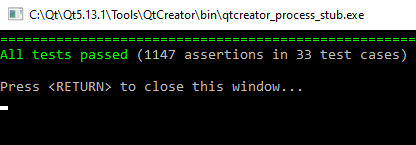
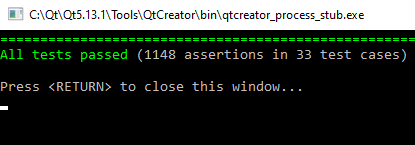
Popravljen listcomp

diff --git a/Main/util.hpp b/Main/util.hpp
@@ -258,13 +258,12 @@ DesnoNeConst primeni(Levo&& a, Desno&& b, BinOp&& operacija)
     return std::move(rez);
 }
 
-// Sablonska fja za apstrakciju odnosno
-// 'razumevanje' fja (list comprehension)
-template<typename Niz, typename P,
+// Sablonska funkcija za apstrakciju odnosno
+// 'razumevanje' listi (list comprehension)
+template<typename Niz, typename P1, typename P2,
          typename NizNeConst = typename std::decay<Niz>::type,
          typename Elem = typename NizNeConst::value_type>
-NizNeConst listcomp(Niz&& izv, const P& pred,
-                    const std::function<void(Elem)>& trans = [](const auto&){})
+NizNeConst listcomp(Niz&& izv, const P1& pred, const P2& trans)
 {
     // Inicijalizacija rezultata
     // prostim kopiranjem izvora
@@ -286,6 +285,14 @@ NizNeConst listcomp(Niz&& izv, const P& pred,
     // Vracanje rezultata; eksplicitno pomeranje
     // kako bi se isforsirala optimizacija (RVO)
     return std::move(rez);
+}
+
+// Gornja fja bez transformacije
+template<typename Niz, typename P,
+         typename NizNeConst = typename std::decay<Niz>::type>
+NizNeConst listcomp(Niz&& izv, const P& pred)
+{
+    return listcomp(std::forward<Niz>(izv), pred, [](auto&){});
 }
 
 // Vracanje tacaka sa leve strane vektora; nesto tipa

diff --git a/Test/oblik_test.cpp b/Test/oblik_test.cpp
@@ -60,7 +60,13 @@ SCENARIO("Moguce je konstruisati mnogougao", "[poly]"){
             CHECK(a.tacke().size() == 7);
 
             a.omot();
-            REQUIRE(a.tacke().size() == 4);
+            CHECK(a.tacke().size() == 4);
+
+            std::vector<int> niz{1, 2, 3};
+            niz = util::listcomp(niz,
+                                 [](const auto& x){return x>2;},
+                                 [](auto& x){x+=2;});
+            REQUIRE(niz == std::vector<int>{5});
         }
 
         WHEN("Primenjuje se transformacija"){
